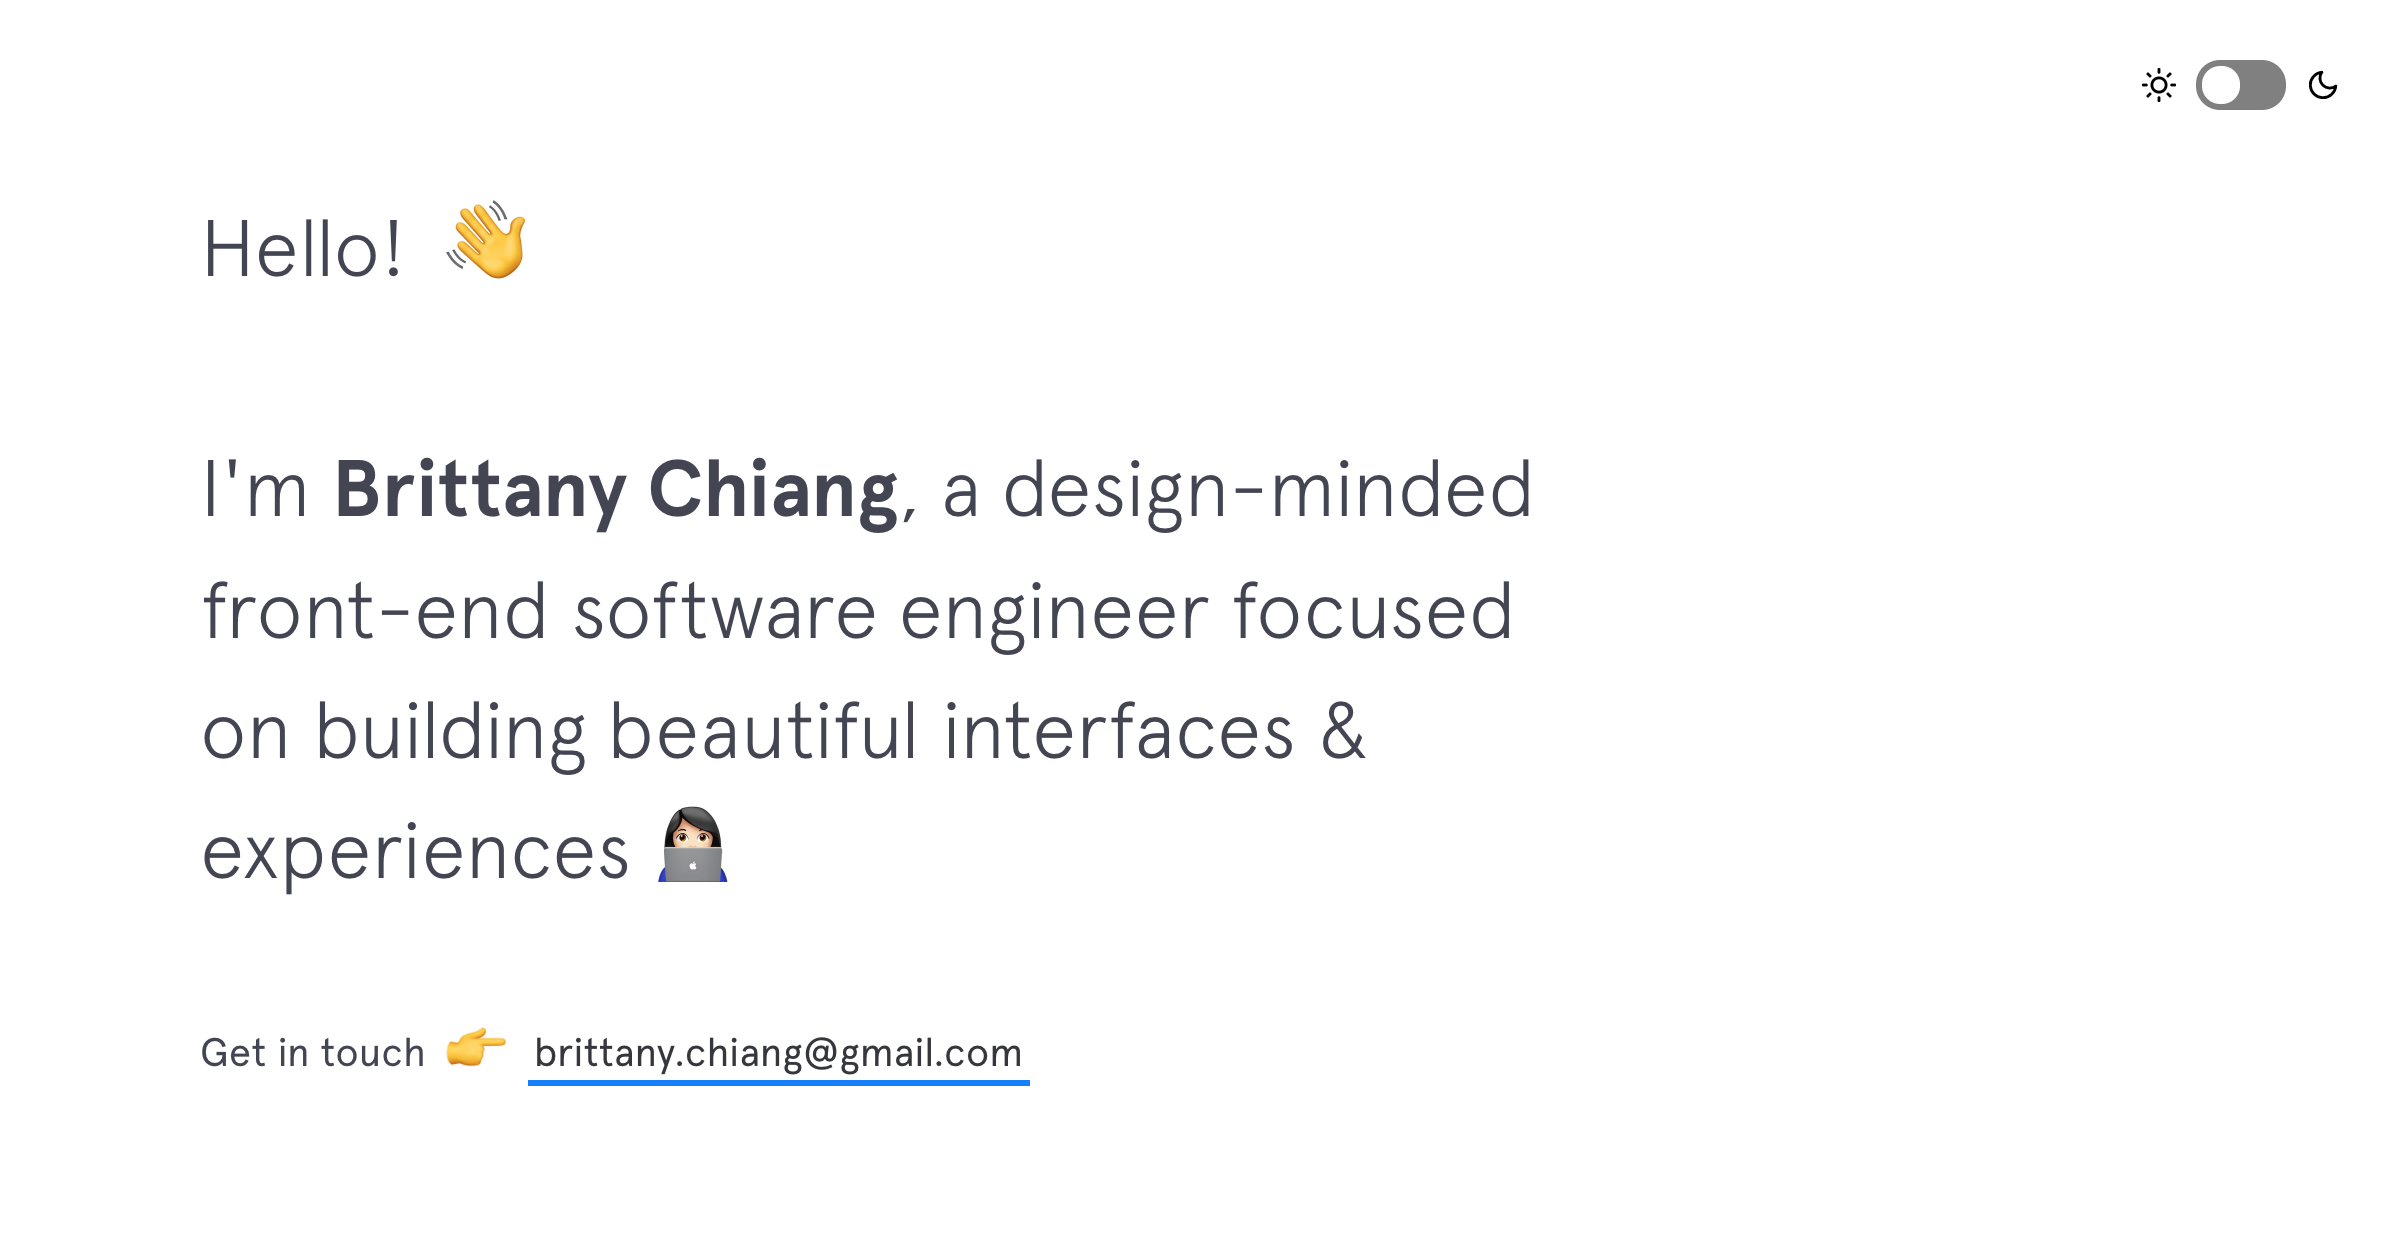
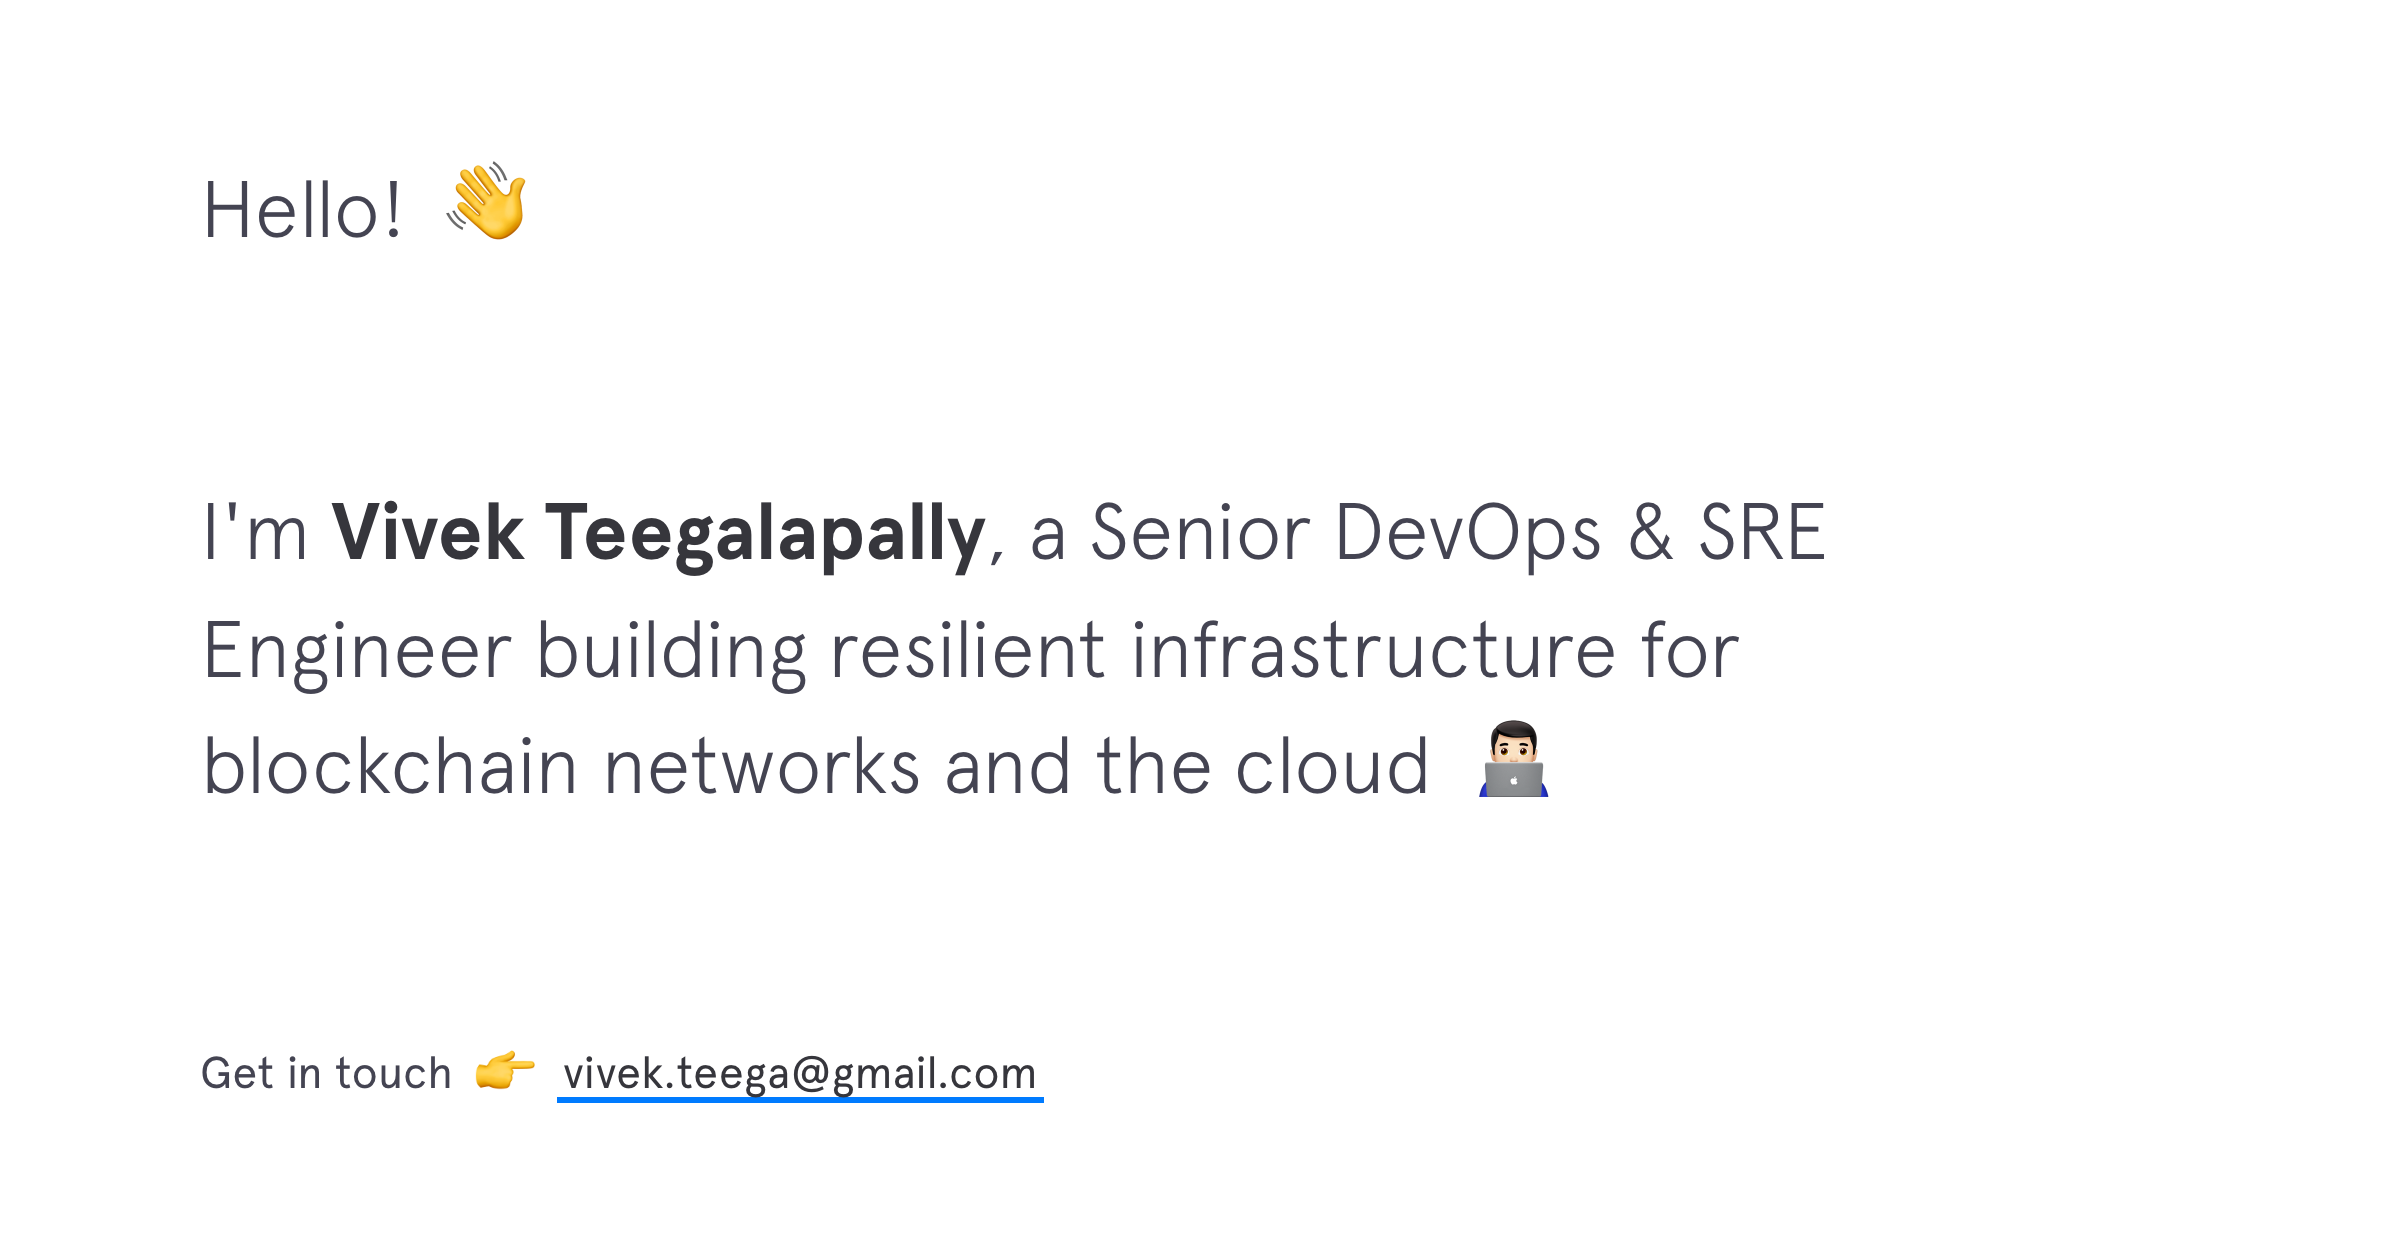
Replace forked social preview image and metadata
The og:image was a screenshot of the original template author's site, so
link previews showed her name. Regenerate it with Vivek's intro, point
metadata at the vivekteega.com custom domain, cache-bust the image URL,
use a large-image Twitter card, and drop the inherited Search Console tag,
package author, and unused project sections/images.

diff --git a/_includes/head.html b/_includes/head.html
@@ -9,22 +9,21 @@
 <meta property="og:url" content="{{site.url}}" />
 <meta property="og:site_name" content="{{site.name}}" />
 <meta property="og:image" content="{{site.cover}}" />
-<meta property="og:image:width" content="1280" />
-<meta property="og:image:height" content="800" />
+<meta property="og:image:width" content="2400" />
+<meta property="og:image:height" content="1260" />
 <meta property="og:image:type" content="image/png" />
 <meta property="og:locale" content="en_US">
 <meta name="description" content="{{site.description}}">
 <meta name="keywords" content="devops, sre, kubernetes, blockchain, cloud infrastructure, vivek teegalapally">
-<meta name="google-site-verification" content="DCl7VAf9tcz6eD9gb67NfkNnJ1PKRNcg8qQiwpbx9Lk" />
 <meta itemprop="name" content="{{site.title}}">
 <meta itemprop="description" content="{{site.description}}">
 <meta itemprop="image" content="{{site.cover}}">
-<meta name="twitter:card" content="summary">
+<meta name="twitter:card" content="summary_large_image">
 <meta name="twitter:url" content="{{site.url}}">
 <meta name="twitter:site" content="@vivekteega">
 <meta name="twitter:creator" content="@vivekteega">
 <meta name="twitter:title" content="{{site.title}}">
 <meta name="twitter:description" content="{{site.description}}">
-<meta name="twitter:image:src" content="{{site.cover}}">
+<meta name="twitter:image" content="{{site.cover}}">
 <link href="https://fonts.googleapis.com/css?family=Inconsolata:400,700" rel="stylesheet">
 <link rel="stylesheet" href="{{ site.baseurl }}/css/main.css" hreflang="en-us">
